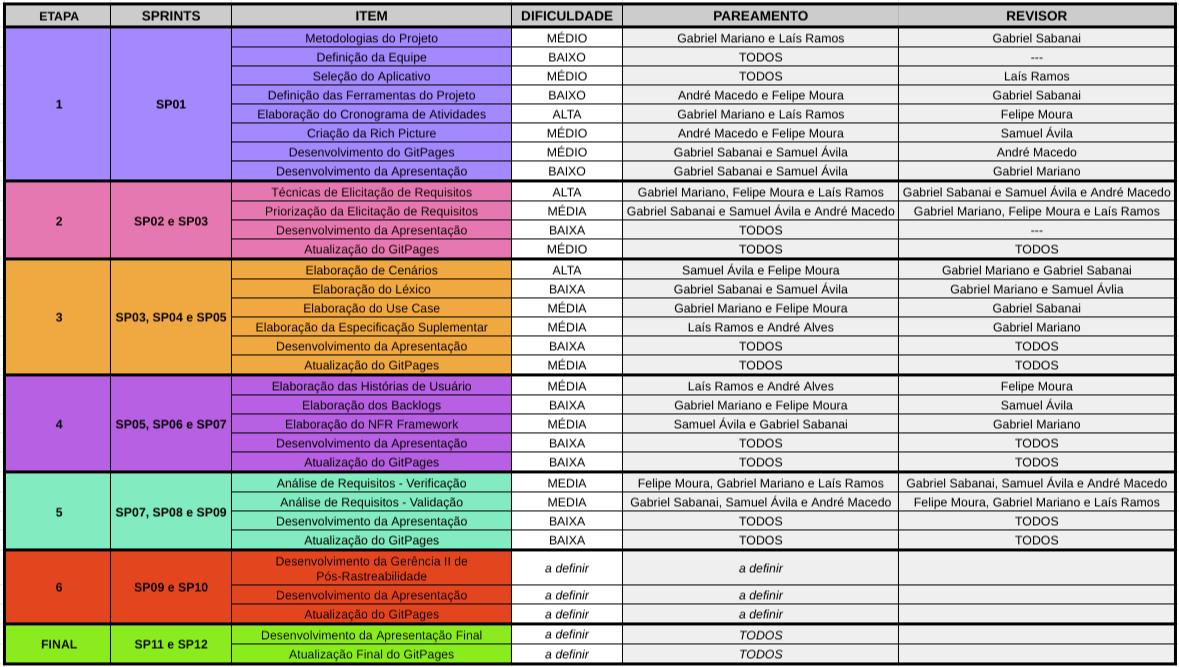
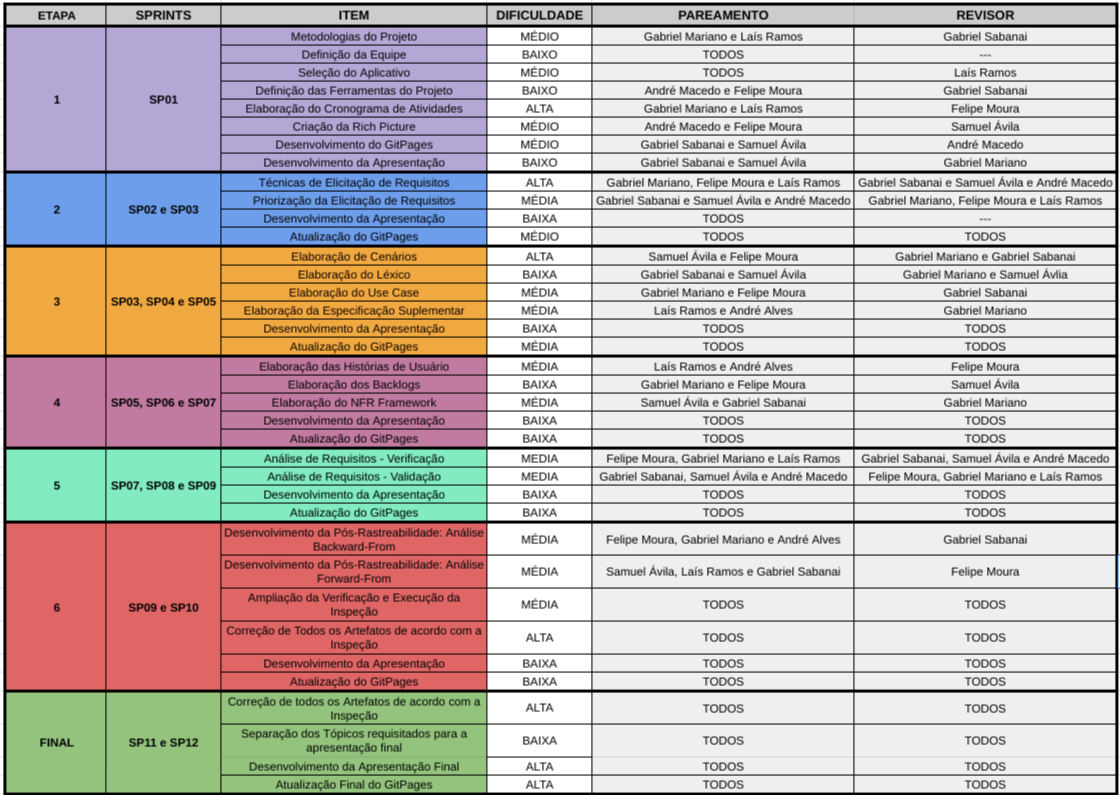
:sparkles: revisao do planejamento

diff --git a/docs/planejamento/metodologia.md b/docs/planejamento/metodologia.md
@@ -2,6 +2,7 @@
 | ------ | ----- | :-------------: | :----------------------------: |
 | 1.0    | 29/06/2022 | Adição das metodologias usadas | Gabriel Mariano, Laís Ramos |
 | 1.1    | 06/07/2022 | Revisão do artigo | Gabriel Sabanai |
+| 1.2    | 12/09/2022 | Revisão das Metodologias: Planning Poker | Gabriel Mariano |
 
 *Tabela 1: versionamento*
 
@@ -29,17 +30,24 @@ O SCRUM é “um framework dentro do qual pessoas podem tratar e resolver proble
 
 No contexto do projeto, será elaborado um Product Backlog, que estará sujeito à alterações conforme previsto no framework, serão adotadas Sprints com duração fixada de 1 semana cada, sendo as atividades de cada Sprint definidas previamente ao início da mesma.
 
-## PAREAMENTO
+## Pareamento
+
 A técnica do Pareamento (no caso, o Pair Programming) no contexto da programação implica que todo o trabalho deve ser produzido por duas pessoas que compartilham a mesma máquina, estando uma no controle da mesma e outra acompanhando o desenvolvimento e repassando suas opiniões para o outro. O princípio do Pareamento é a realização de trabalho colaborativo, de modo a promover o compartilhamento de ideias e a reduzir a probabilidade de erros durante a produção do código em questão. (WELLS, 1999)
 
 No contexto do projeto, as tarefas geralmente serão divididas em pares, que poderão executá-las simultaneamente mantendo contato através de uma plataforma de comunicação e editando um mesmo documento ao mesmo tempo através de suítes on-line de edição de documentos que permitem isso.
 
-## KANBAN
+## Kanban
 O Kanban é um “sistema visual de gestão de trabalho, que busca conduzir cada tarefa por um fluxo predefinido de trabalho”. Nesse sentido, o Kanban é notoriamente conhecido pela disposição visual de estruturas (que podem ser quadros) que abrigam tarefas e estão divididas entre as várias partes do fluxo de execução de tarefas do projeto. (TOTVS, 2021)
 
 No contexto do projeto, será utilizada a ferramenta Trello para o gerenciamento visual das atividades do backlog de cada entrega a ser realizada. O fluxo de realização do trabalho consistirá em: “A fazer”, “Em andamento” e “Concluído”, podendo este ser alterado posteriormente conforme eventual necessidade.
 
-## OUTROS
+## Planning Poker
+
+O _Planning Poker_ consiste em uma técnica voltada para os _frameworks_ ágeis que se baseia na avaliação da complexidade de uma atividade da sprint com base em níveis pré-definidos, geralmente representados por um baralho de cartas.
+
+De acordo com DevMedia (2014), ao se realizar o _Planning Poker_, todos os participantes devem anunciar suas opiniões ao mesmo tempo, de modo que aqueles que apresentarem as opiniões mais dissonantes do grupo devem explicar seus motivos e então o _Planning Poker_ deve ser refeito até que todos entrem em um consenso.
+
+## Outros
 Conforme o andamento do projeto e a verificação de novas necessidades ou de problemas no desenvolvimento do mesmo, podem ser adotadas novas metodologias que se adequem mais à equipe.
 
 
@@ -50,3 +58,5 @@ SCHWABER, Ken; SUTHERLAND, Jeff. “Guia do Scrum: Um guia definitivo para o Scr
 WELLS, Don. “Pair Programming”, 1999. Disponível em: <http://www.extremeprogramming.org/rules/pair.html>. Acesso em 29 jun. 2022 às 00:20.
 
 Equipe TOTVS. “Kanban: conceito, como funciona, vantagens e implementação”, 12 jan. 2021. Disponível em: <https://www.totvs.com/blog/negocios/kanban/>. Acesso em 29 jun. 2022 às 00:41.
+
+**DevMedia.** "Planning Poker e Ideal Day: Técnicas de Abordagem de Estimativa Ágil" por Roger, 2014. Disponível em: <https://www.devmedia.com.br/planning-poker-e-ideal-day-tecnicas-de-abordagem-de-estimativa-agil/31220>. Acesso em 12 set. 2022.

diff --git a/docs/planejamento/cronograma.md b/docs/planejamento/cronograma.md
@@ -6,18 +6,19 @@
 | 1.1    | 13/07/2022 | Revisäo do cronograma |  Felipe Moura  |
 | 1.2    | 03/08/2022 | Revisäo do cronograma |  Gabriel Mariano |
 | 1.3    | 17/08/2022 | Revisäo do cronograma |  Gabriel Mariano |
+| 1.4    | 12/09/2022 | Revisäo do cronograma |  Gabriel Mariano |
 
 *Tabela 1: versionamento*
 
 ## Introdução
 
-Foi analisado o cronograma do semestre letivo, os prazos da disciplina e a disponibilidade dos integrantes. Dessa forma, foi criado um cronograma (Imagem 1) que foi dividido em etapas para a realização das atividades e cumprimento dos prazos (Tabela 2), todos baseados no product backlog descrito (Tabela 3).
+Foi analisado o cronograma do semestre letivo, os prazos da disciplina e a disponibilidade dos integrantes. Dessa forma, foi criado um cronograma (Figura 1) que foi dividido em etapas para a realização das atividades e cumprimento dos prazos (Tabela 2), todos baseados no product backlog descrito (Figura 2).
 
 ## Cronograma de atividades
 
 ![Cronograma](../assets/cronograma.png)
 
-*Imagem 1: Cronograma de sprints*
+*Figura 1: Cronograma de sprints*
 
 ## Datas e Sprints
 
@@ -41,4 +42,4 @@ Foi analisado o cronograma do semestre letivo, os prazos da disciplina e a dispo
 
 ![Cronograma Detalhado](../assets/cronograma-detalhado.png)
 
-*Tabela 3: Cronograma Detalhado das Sprints*
+*Figura 2: Cronograma Detalhado das Sprints*
